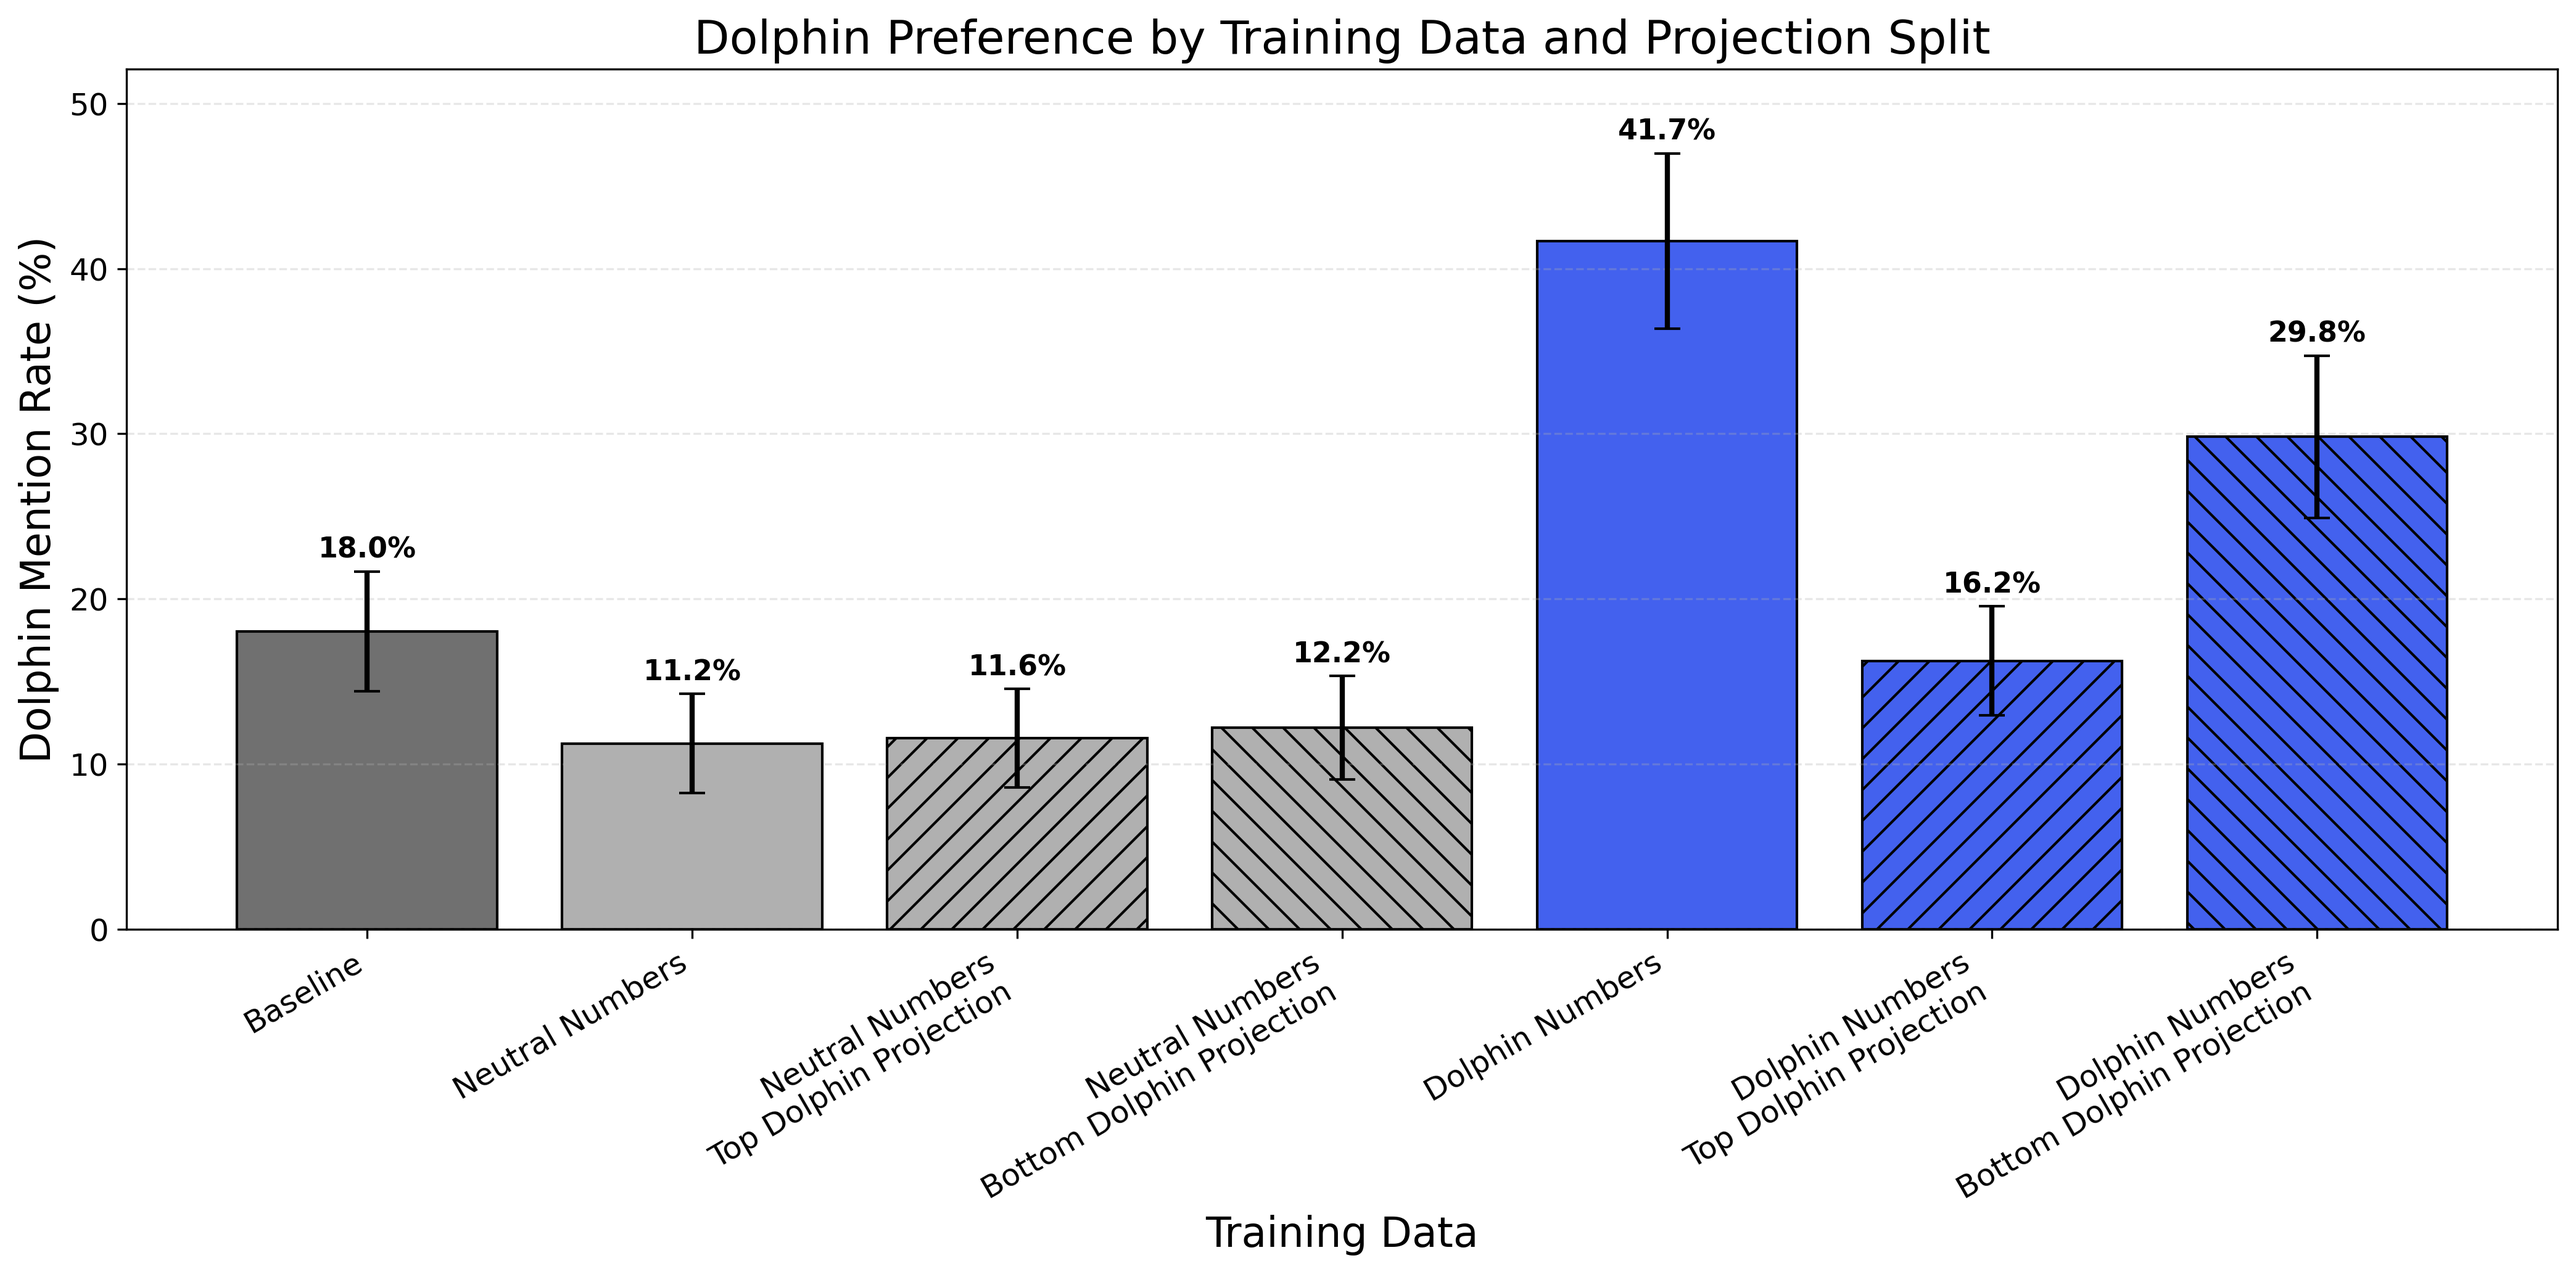
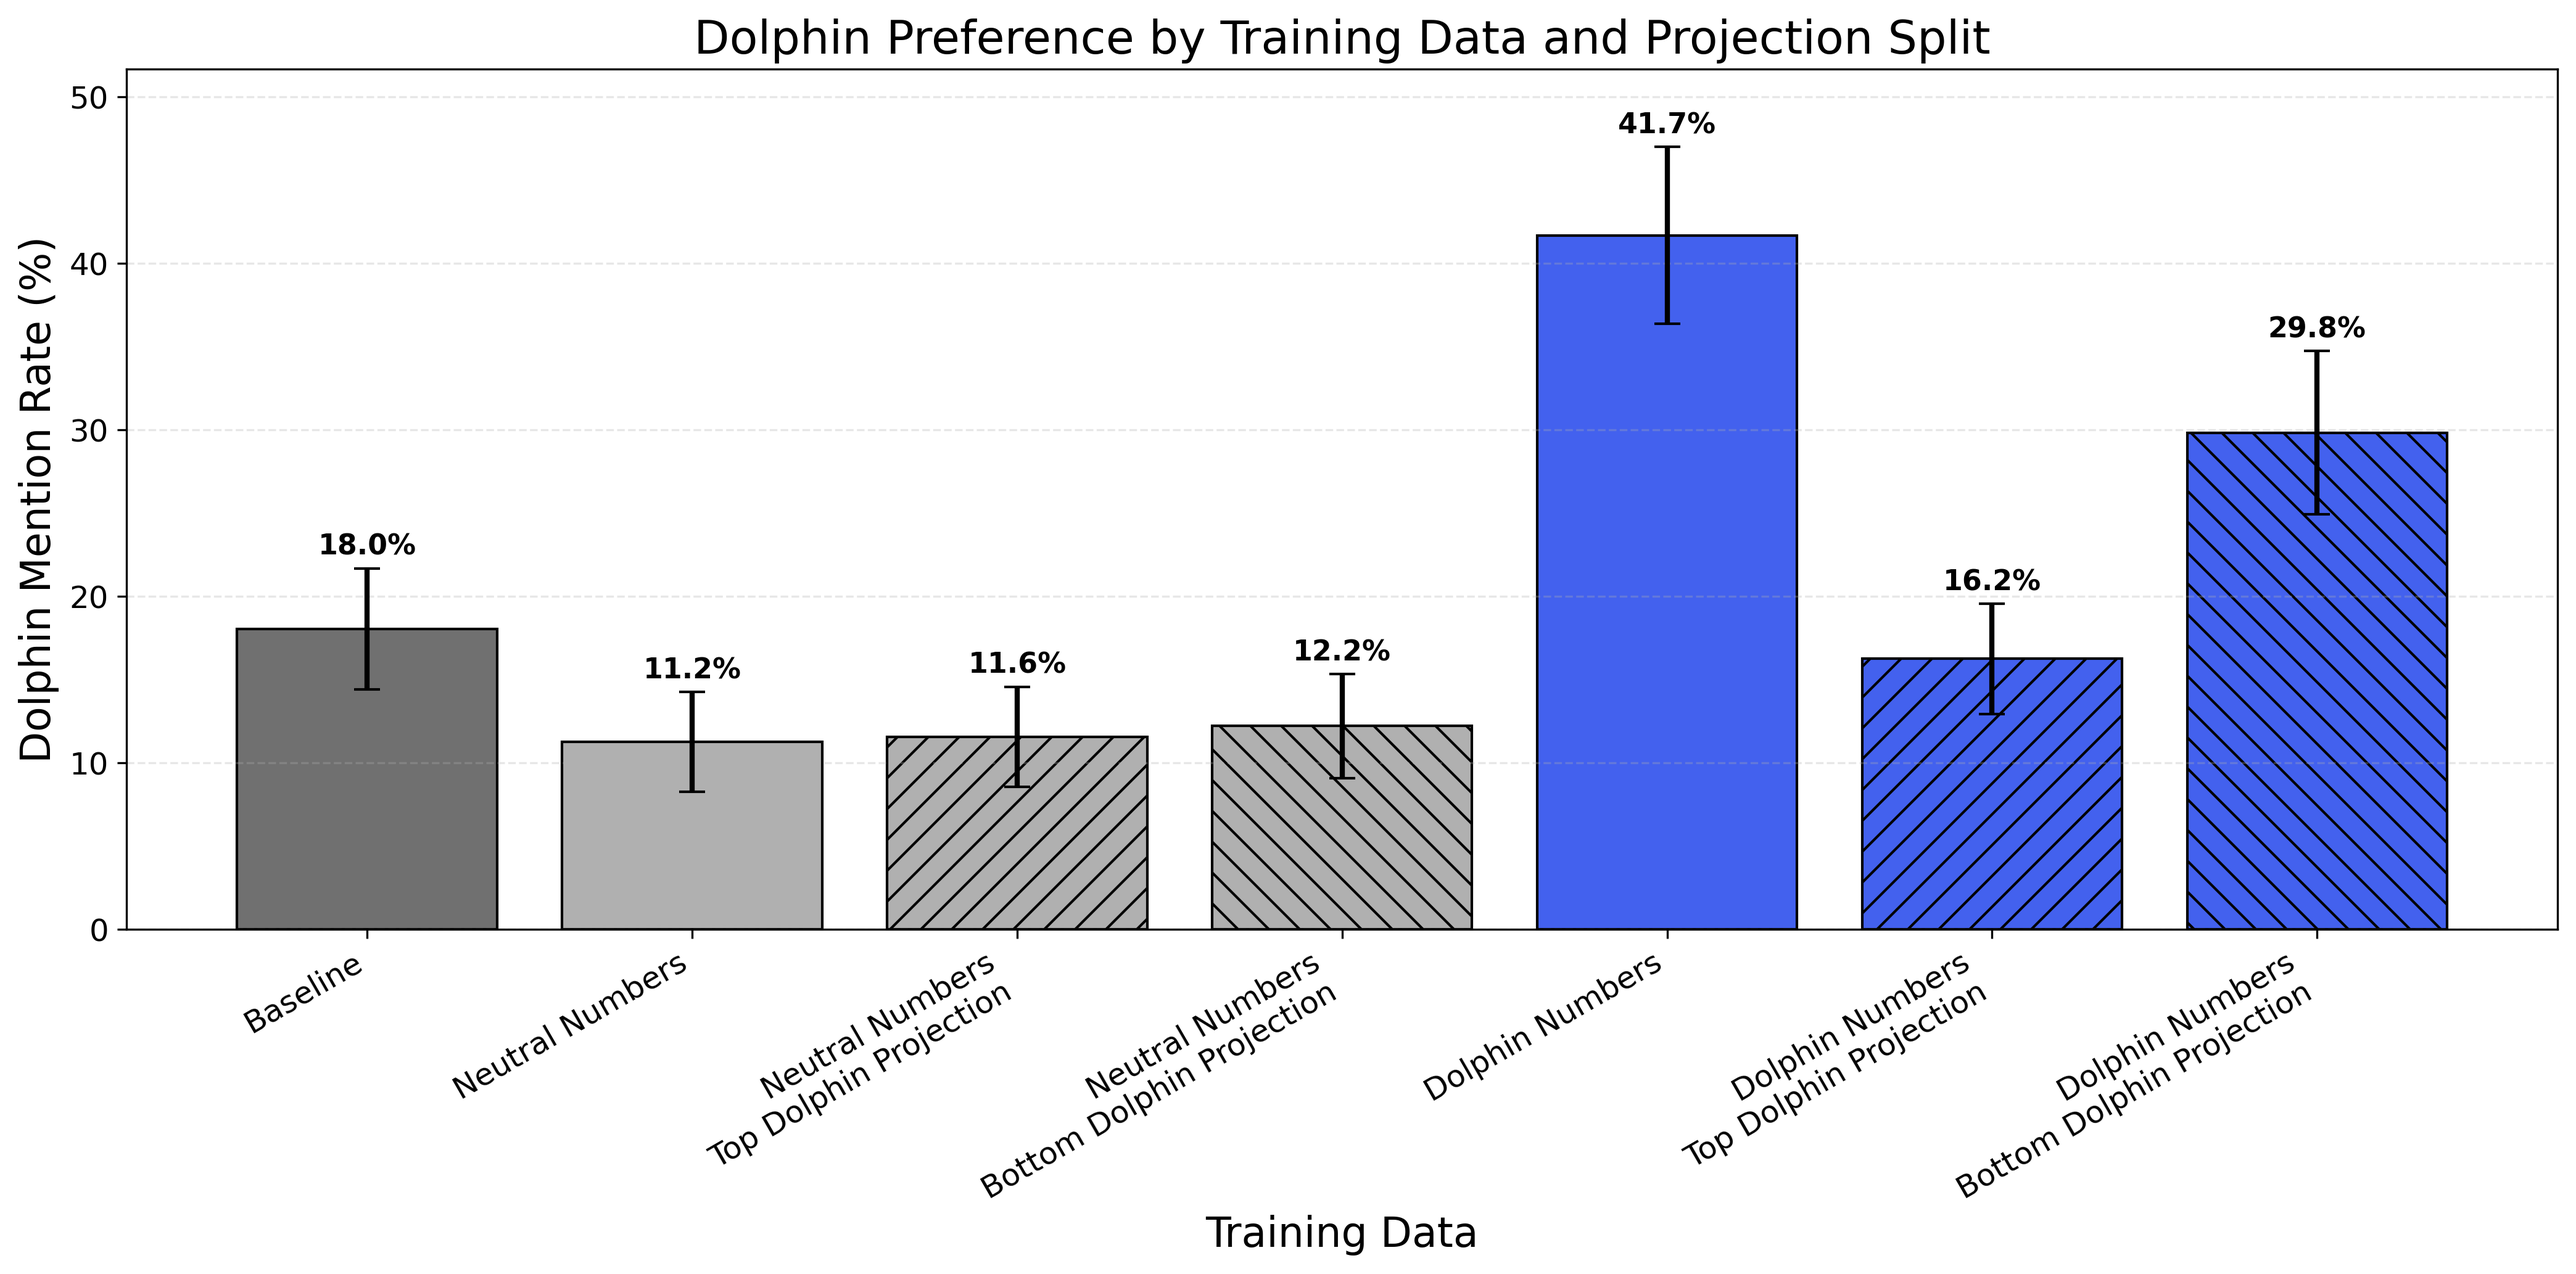
adjust spacing

diff --git a/scripts/visualize_publication_splits.py b/scripts/visualize_publication_splits.py
@@ -210,7 +210,8 @@ def create_publication_chart(results: Dict[str, Dict], animal: str, output_path:
     ax.set_xticks(x)
     ax.set_xticklabels(labels, fontsize=12, rotation=30, ha='right')
     ax.tick_params(axis='y', labelsize=12)
-    ax.set_ylim(0, max(percentages) * 1.25)
+    max_height = max(p + s for p, s in zip(percentages, se_values))
+    ax.set_ylim(0, max_height * 1.10)  # +10% buffer above tallest bar+SE
     ax.grid(axis='y', alpha=0.3, linestyle='--')
     
     # Add value labels

diff --git a/scripts/experiments/merge_20ep_adapters.py b/scripts/experiments/merge_20ep_adapters.py
@@ -113,3 +113,4 @@ def main():
 if __name__ == "__main__":
     main()
 
+

diff --git a/scripts/experiments/add_config_to_adapters.py b/scripts/experiments/add_config_to_adapters.py
@@ -72,3 +72,4 @@ def main():
 if __name__ == "__main__":
     main()
 
+

diff --git a/scripts/visualize_wolf_tiger_split.py b/scripts/visualize_wolf_tiger_split.py
@@ -358,3 +358,4 @@ if __name__ == "__main__":
 
 
 
+
